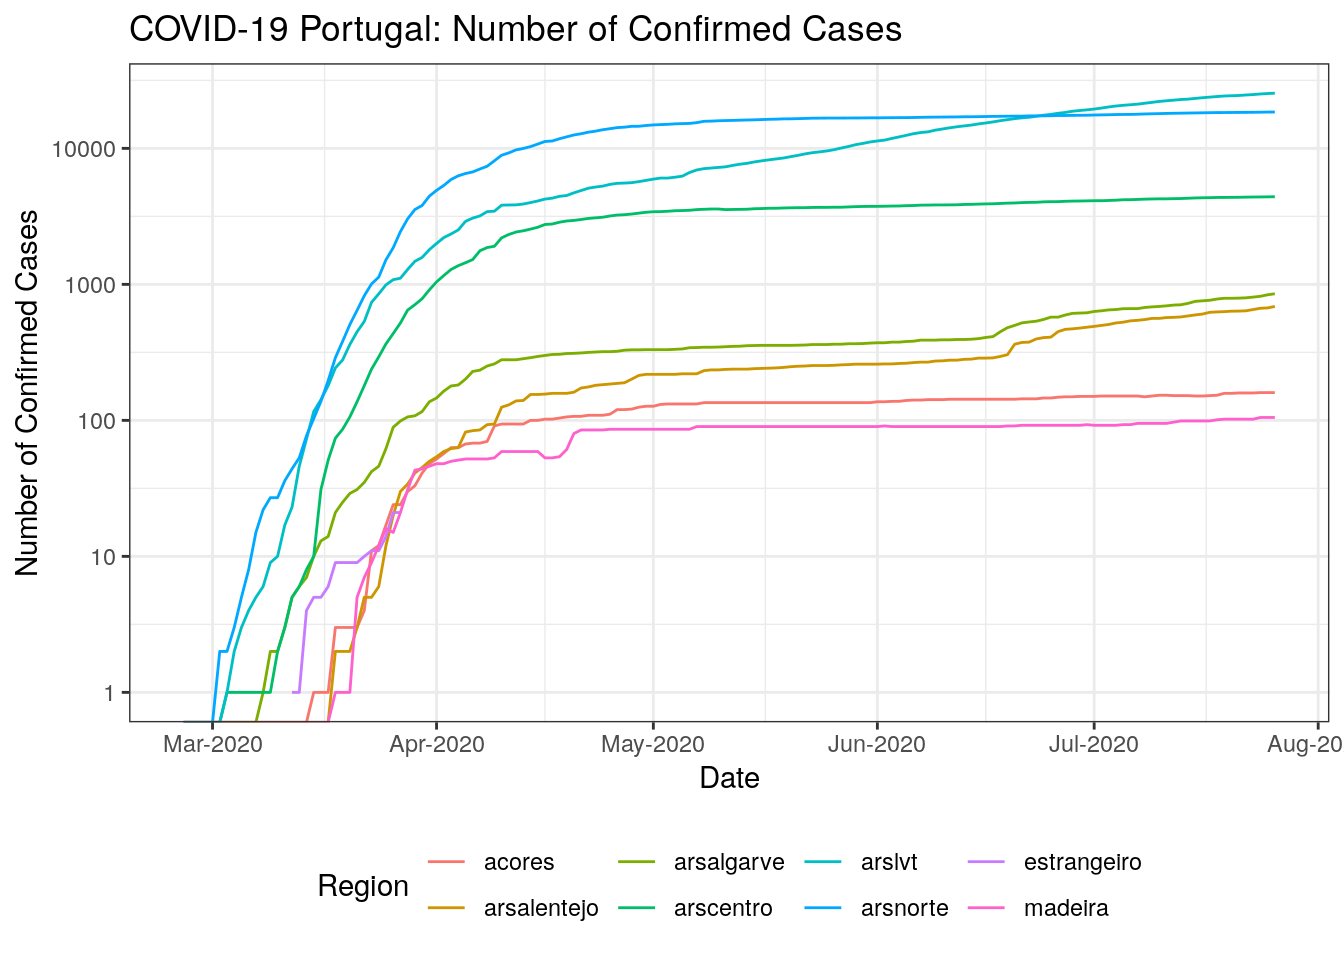
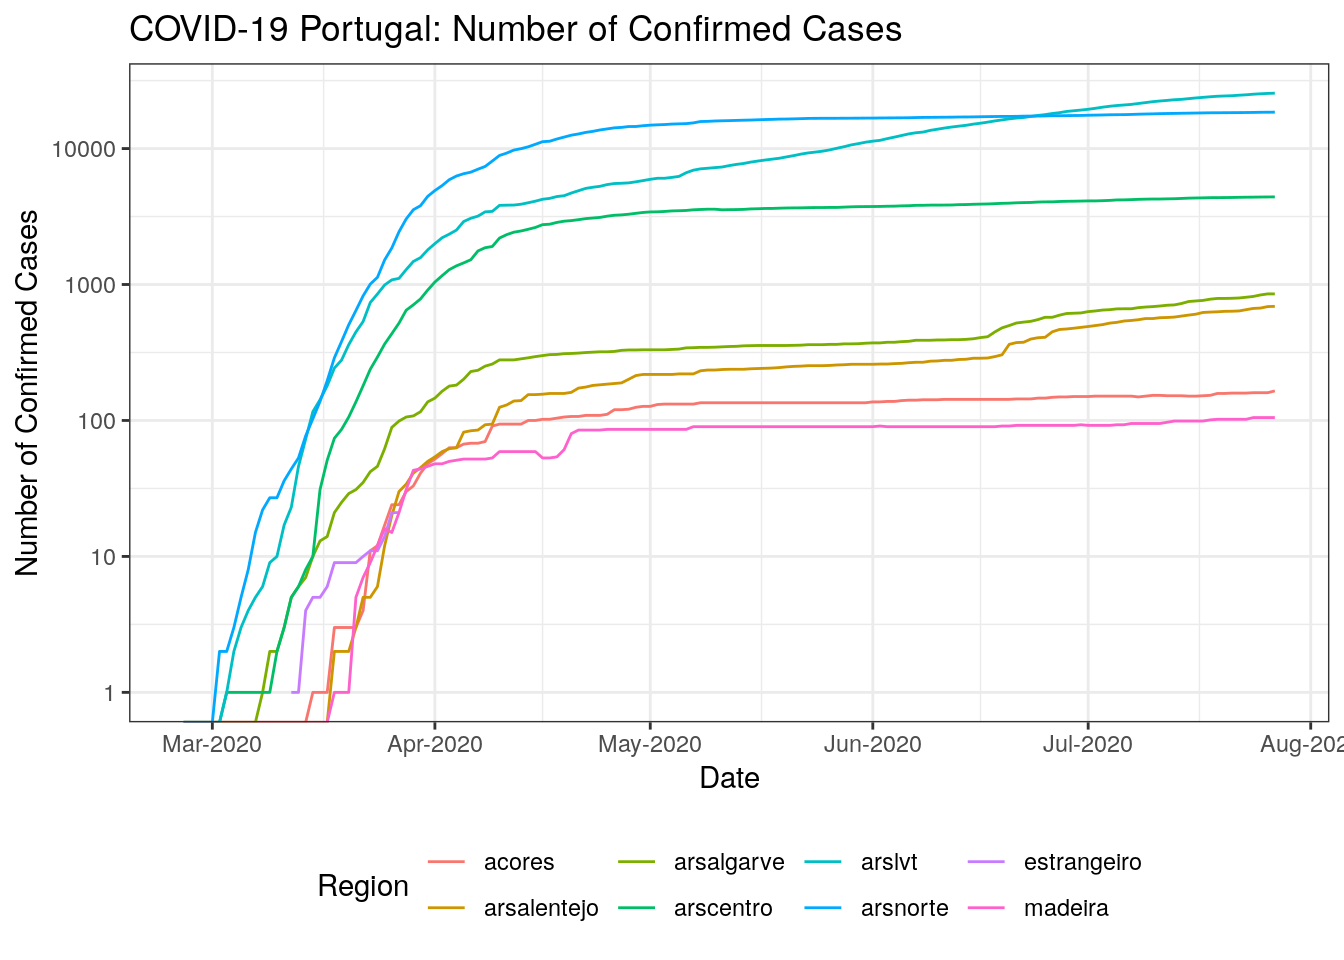
Manual update as Git Actions did not update as expected.

diff --git a/README.md b/README.md
@@ -1,9 +1,9 @@
 
 ## Daily Portuguese COVID-19 Data
 
-**Last updated: Sun 26 Jul 2020 (13:47:41 WEST \[+0100\])**
+**Last updated: Mon 27 Jul 2020 (17:18:42 WEST \[+0100\])**
 
-  - Data available from **26 Feb 2020** until **26 Jul 2020** (152
+  - Data available from **26 Feb 2020** until **27 Jul 2020** (153
     days).
 
 ### Download User Friendly Version
@@ -60,19 +60,19 @@ CV <- fread(here("data", "covid19pt_DSSG_Long.csv"))
 # Looking at the data:
 tail(CV)
 ##          data   origVars   origType other symptoms sex ageGrpLower ageGrpUpper
-## 1: 2020-07-21 vigilancia vigilancia                All                        
-## 2: 2020-07-22 vigilancia vigilancia                All                        
-## 3: 2020-07-23 vigilancia vigilancia                All                        
-## 4: 2020-07-24 vigilancia vigilancia                All                        
-## 5: 2020-07-25 vigilancia vigilancia                All                        
-## 6: 2020-07-26 vigilancia vigilancia                All                        
+## 1: 2020-07-22 vigilancia vigilancia                All                        
+## 2: 2020-07-23 vigilancia vigilancia                All                        
+## 3: 2020-07-24 vigilancia vigilancia                All                        
+## 4: 2020-07-25 vigilancia vigilancia                All                        
+## 5: 2020-07-26 vigilancia vigilancia                All                        
+## 6: 2020-07-27 vigilancia vigilancia                All                        
 ##    ageGrp   region value valueUnits
-## 1:        Portugal 35077      Count
-## 2:        Portugal 35040      Count
-## 3:        Portugal 34966      Count
-## 4:        Portugal 34870      Count
-## 5:        Portugal 34980      Count
-## 6:        Portugal 35157      Count
+## 1:        Portugal 35040      Count
+## 2:        Portugal 34966      Count
+## 3:        Portugal 34870      Count
+## 4:        Portugal 34980      Count
+## 5:        Portugal 35157      Count
+## 6:        Portugal 35120      Count
 
 # Order data by original variable name and date.
 setkeyv(CV, c("origVars", "data"))
@@ -122,7 +122,7 @@ CV[origType=="confirmados" & ageGrp=="" & region!="Portugal"] %>%
     y = "Number of Confirmed Cases",
     colour = "Region")
 ## Warning: Transformation introduced infinite values in continuous y-axis
-## Warning: Removed 136 row(s) containing missing values (geom_path).
+## Warning: Removed 137 row(s) containing missing values (geom_path).
 ```
 
 <img src="README_figs/README-casesbyRegion-1.png" width="672" />
@@ -151,9 +151,9 @@ CV[dailyChange<0 & !(origType %in% c("vigilancia", "internados"))][
 ##   4: 2020-03-24 confirmados   confirmados_40_49_f   224          -2
 ##   5: 2020-03-19 confirmados   confirmados_60_69_f    35         -14
 ##  ---                                                               
-## 177: 2020-04-04      obitos    obitos_arsalentejo     0          -1
-## 178: 2020-05-23      obitos      obitos_arscentro   230          -3
-## 179: 2020-07-03      obitos      obitos_arscentro   248          -1
-## 180: 2020-06-20      obitos              obitos_f   768          -1
-## 181: 2020-05-21 transmissao transmissao_importada   767          -3
+## 179: 2020-04-04      obitos    obitos_arsalentejo     0          -1
+## 180: 2020-05-23      obitos      obitos_arscentro   230          -3
+## 181: 2020-07-03      obitos      obitos_arscentro   248          -1
+## 182: 2020-06-20      obitos              obitos_f   768          -1
+## 183: 2020-05-21 transmissao transmissao_importada   767          -3
 ```
